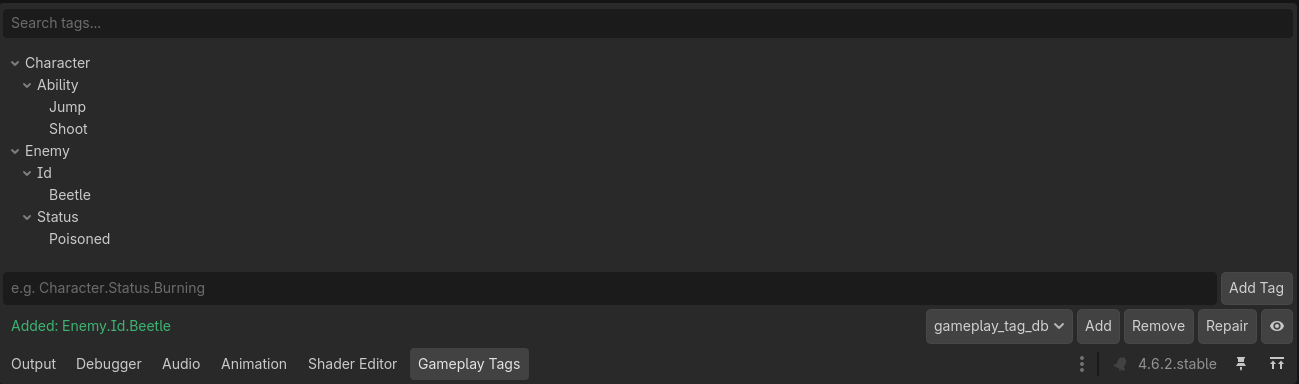
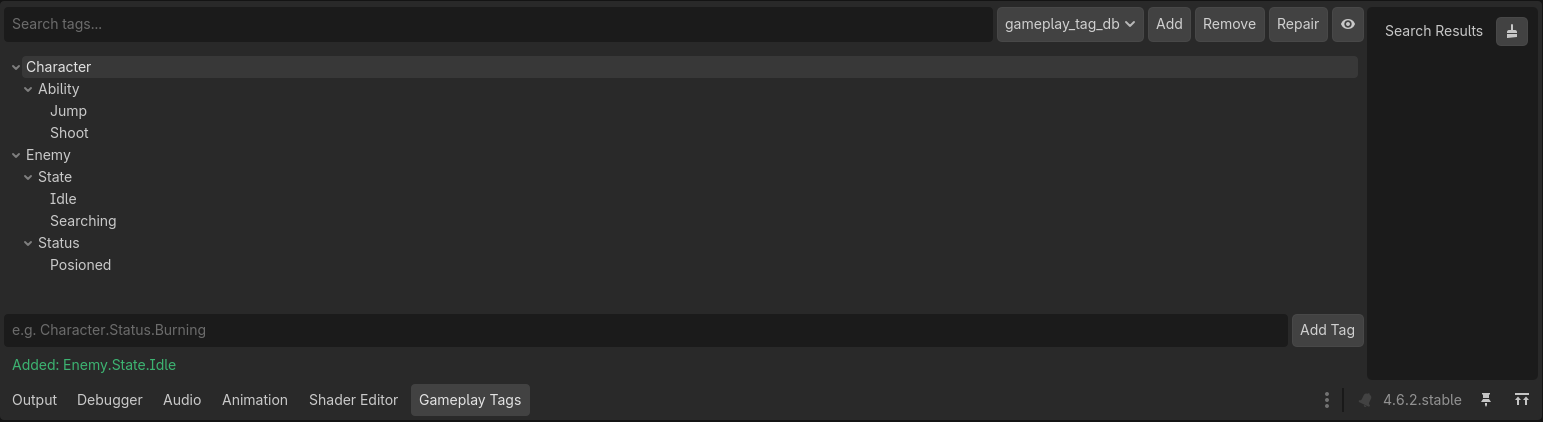
Fixed Inspector and updated README
also fixed the version in the plugin.cfg file

diff --git a/README.md b/README.md
@@ -31,15 +31,15 @@ Right-clicking any tag in the tree gives you options to copy, rename, or delete 
 
 ## Assigning Tags to Nodes
 
-Declare an exported property on any node(use setter if you want the tags to be unique):
+Declare an exported property on any node:
 
 ```gdscript
-@export var tags: GameplayTagContainer:
-	set(value): #for unique tags
-		tags = value.duplicate() if value else GameplayTagContainer.new()
+@export var tags: GameplayTagContainer
 ```
 
-Select the node in the editor and click **Edit Tags** in the Inspector to open the tag picker. Check the tags you want to assign to this node.
+Select the node in the editor and create a new GameplayTagContainer resource. Select the newly created resource in you should be able to click **Edit Tags** in the Inspector to open the tag picker. Check the tags you want to assign to this node.
+
+![Panel Overview](.github/images/tag_resource.png)
 
 ## Querying Tags at Runtime
 
@@ -129,10 +129,16 @@ Full GAS-like system:
 - [Forge Godot](https://github.com/gamesmiths-guild/forge-godot) *C# Only
 - [Godot Gameplay Systems](https://github.com/OctoD/godot-gameplay-systems) *Rewrite in Progress
 
+
+## Known issues
+
+Duplicated or child objects with tags in a GameplayTagContainer will technically reference the same tags since the containers are a single Resource.
+
+
 ## Thank You
 
 I am by no means an expert dev. There might much better ways to approach tags, but this system worked great for me in my projects and I hope it can help you too.
 
 **--Disclaimer--**
 
-I wrote some if this addon with Claude. I do my best to use AI sparingly, and personally I like the challenge of solving problems with code, but sometimes I hit a roadblock and my skills don't cut it. I understand if this dissapoints you, but know I plan to use AI less and less as my skills grow OR we find a better way to make AI more sustainable and use ethical/transparent training practices :P
+I wrote some if this addon with Claude. I do my best to use AI sparingly, and personally I like the challenge of solving problems with code, but sometimes I hit a roadblock and my skills don't cut it. I plan to use AI less and less as my skills grow OR we find a better way to make AI more sustainable and use ethical/transparent training practices :P
